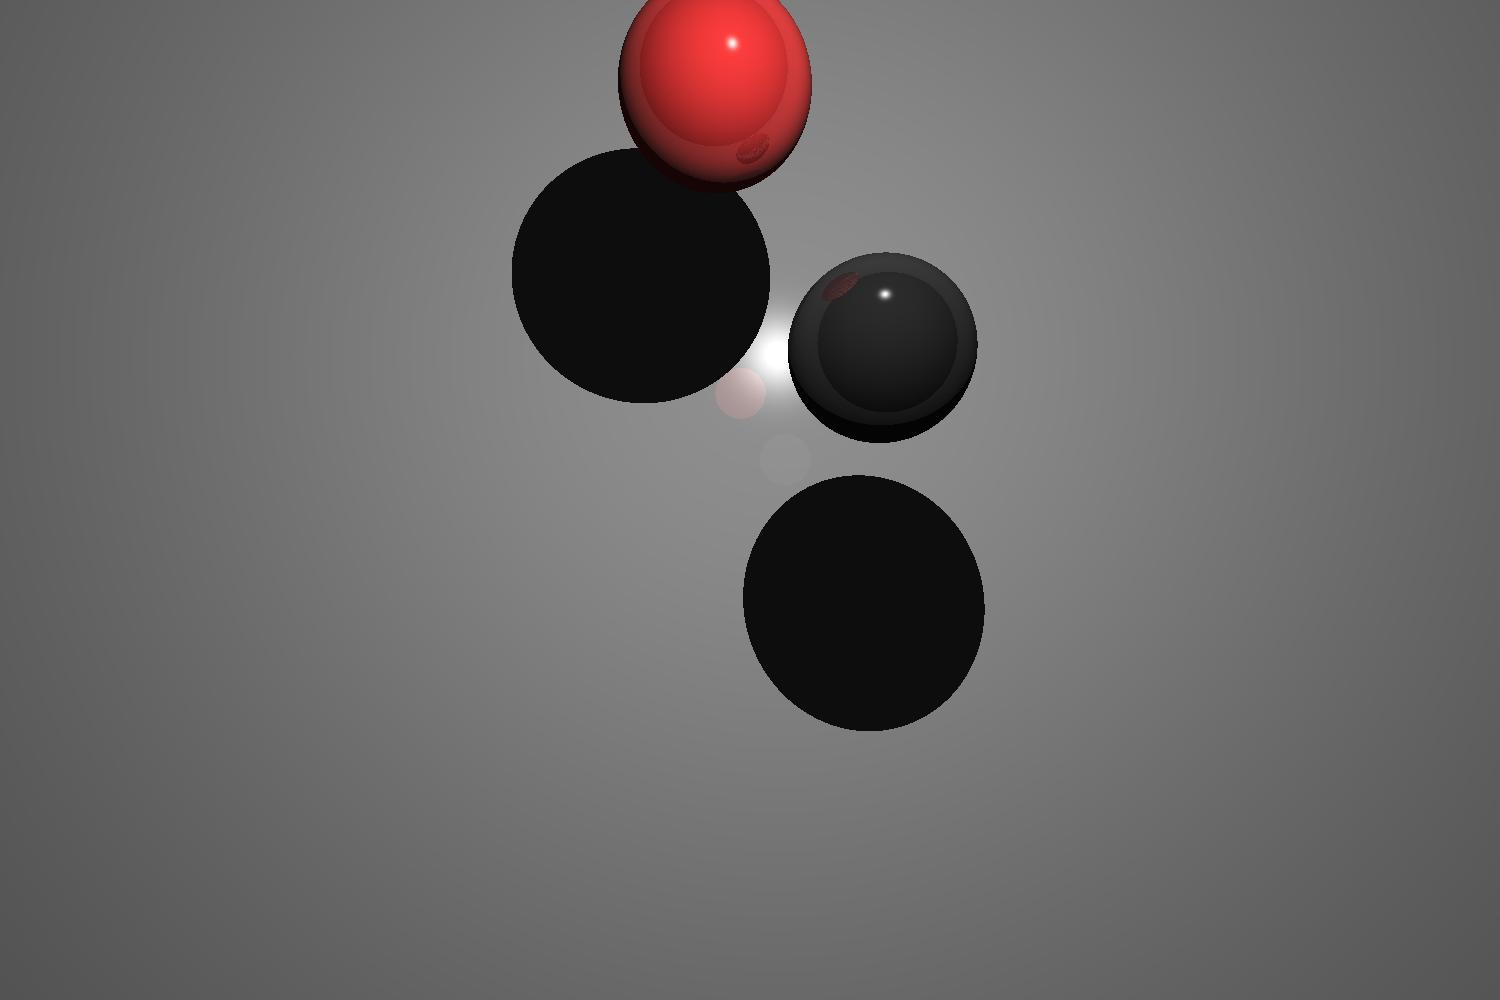
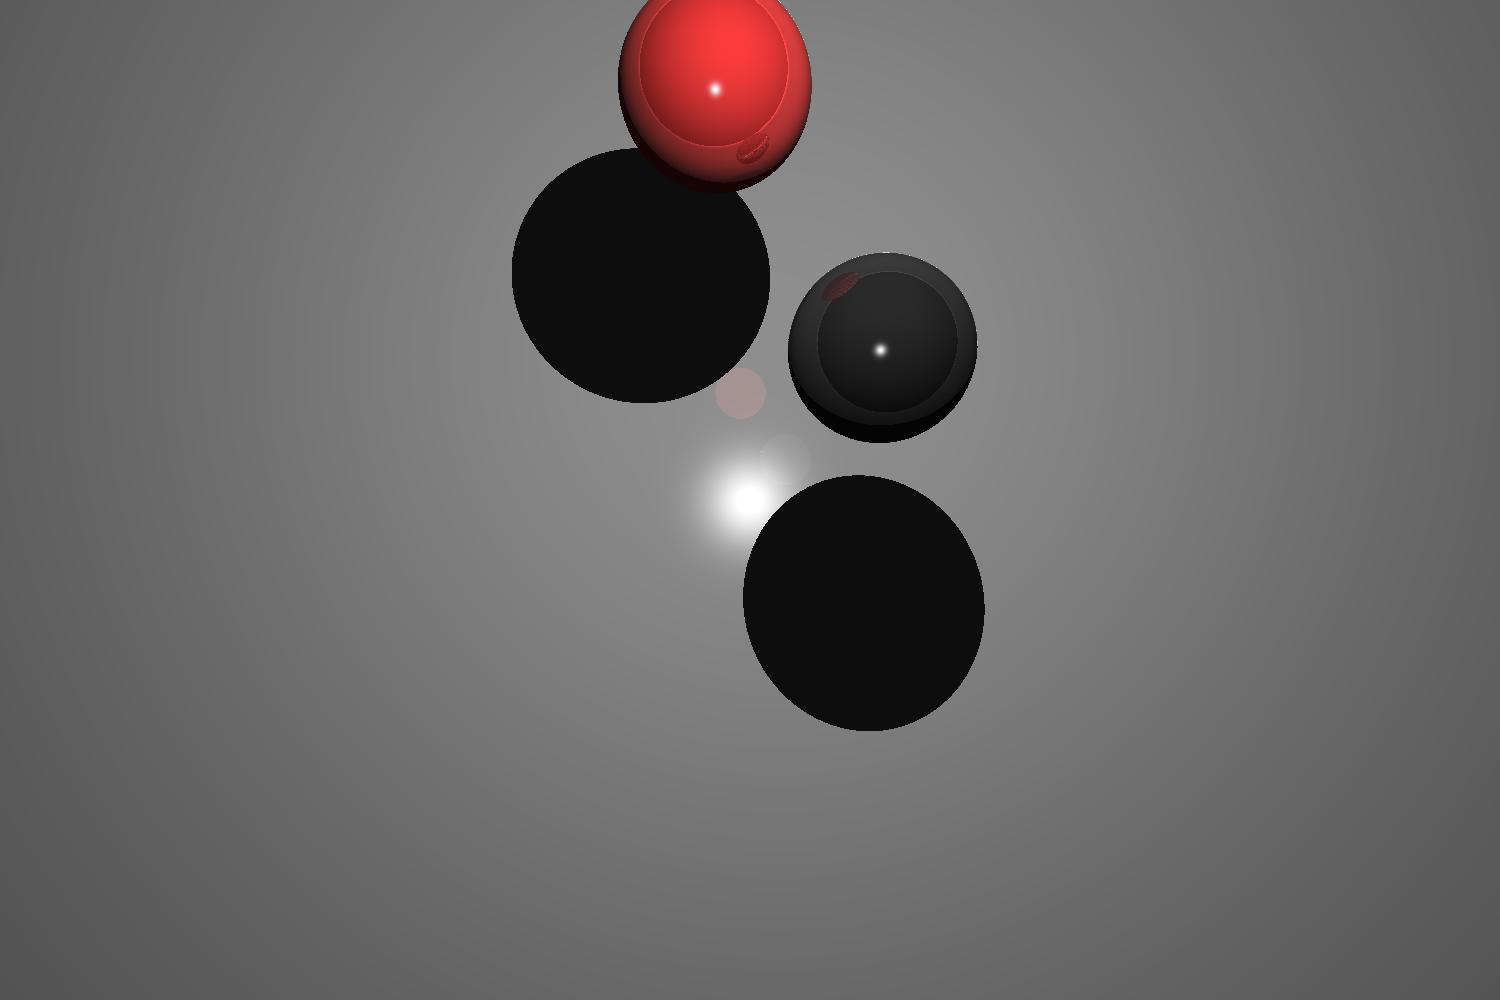
sin linea

diff --git a/src/trazadorrayos/OperacionesEscena.java b/src/trazadorrayos/OperacionesEscena.java
@@ -181,11 +181,11 @@ public class OperacionesEscena {
 				double cosenoDif = rayoAlFoco.dot(normal) / normal.length()
 						/ rayoAlFoco.length();
 				double IpartDifR = figura.kd.getRed()
-						* escena.getFoco().getColor().getRed() / 255 * cosenoDif;
+						* rayo.getColor().getRed() / 255 * cosenoDif;
 				double IpartDifG = figura.kd.getGreen()
-						* escena.getFoco().getColor().getGreen() / 255 * cosenoDif;
+						* rayo.getColor().getGreen() / 255 * cosenoDif;
 				double IpartDifB = figura.kd.getBlue()
-						* escena.getFoco().getColor().getBlue() / 255 * cosenoDif;
+						* rayo.getColor().getBlue() / 255 * cosenoDif;
 				// especular
 				double aux2 = 2 * normal.dot(rayoAlOjo);
 
@@ -203,14 +203,13 @@ public class OperacionesEscena {
 				reflejado2.normalize();
 				double cosenoEsp = reflejado2.dot(rayoAlOjo)
 						/ rayoAlOjo.length() / reflejado2.length();
-                               
 				cosenoEsp = Math.pow(cosenoEsp, 150);
 				double IpartEspR = figura.ks.getRed()
-						* escena.getFoco().getColor().getRed() / 255 * cosenoEsp;
+						* rayo.getColor().getRed() / 255 * cosenoEsp;
 				double IpartEspG = figura.ks.getGreen()
-						* escena.getFoco().getColor().getGreen() / 255 * cosenoEsp;
+						* rayo.getColor().getGreen() / 255 * cosenoEsp;
 				double IpartEspB = figura.ks.getBlue()
-						* escena.getFoco().getColor().getBlue() / 255 * cosenoEsp;
+						* rayo.getColor().getBlue() / 255 * cosenoEsp;
 
 				intensidadR += IpartDifR + IpartEspR;
 				intensidadG += IpartDifG + IpartEspG;
@@ -229,7 +228,6 @@ public class OperacionesEscena {
 						colorRayoReflejado);
 
 				/*
-                                //escena.getFoco() en vez de rayo color?
 				 * double
 				 * intensidadRefractadoR=(1-reflec)*rayo.getColor().getRed();
 				 * double
